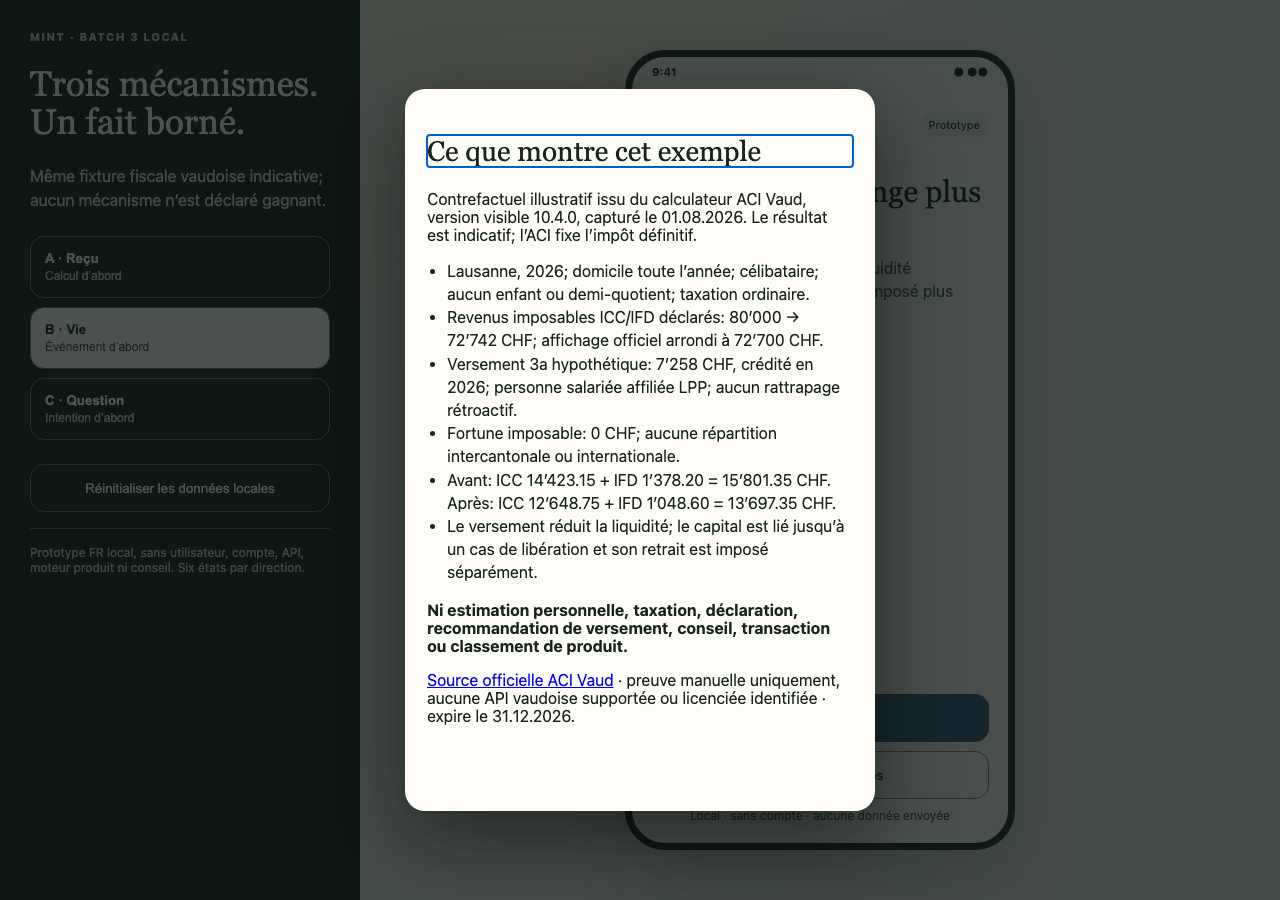
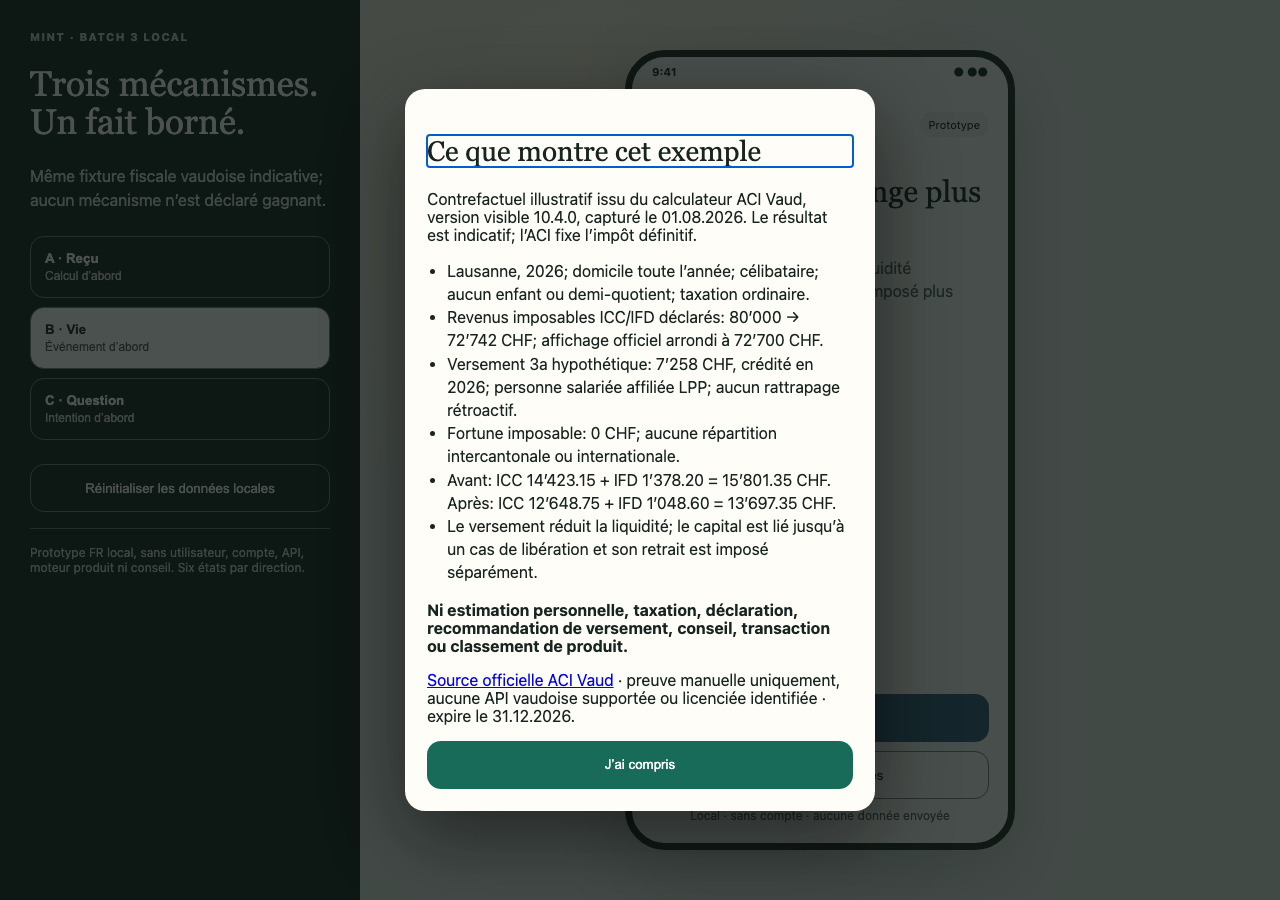
fix(mint-next): make disclosure close control visible

Changed region(s): [[0.3125, 0.8089, 0.6875, 0.9022]]

diff --git a/product/mint_next/batch3/prototype/index.html b/product/mint_next/batch3/prototype/index.html
@@ -4,7 +4,7 @@
   <meta charset="utf-8"><meta name="viewport" content="width=device-width,initial-scale=1">
   <title>MINT — Batch 3 · trois directions</title>
   <style>
-    :root{--ink:#17241f;--muted:#53605a;--paper:#f5f2e9;--card:#fffdf8;--mint:#176b58;--blue:#315c78;--violet:#685b82;--line:#c8d0ca;--danger:#8d352f;font-family:-apple-system,BlinkMacSystemFont,"Segoe UI",sans-serif;color:var(--ink);background:#dfe1dc}*{box-sizing:border-box}body{margin:0}.lab{display:grid;grid-template-columns:minmax(260px,360px) minmax(320px,1fr);min-height:100vh}.panel{padding:30px;background:#17241f;color:#fff}.eyebrow{font-size:11px;letter-spacing:.13em;text-transform:uppercase;font-weight:750;color:#b8cfc5}.panel h1,.content h2{font-family:Georgia,serif;font-weight:500}.panel h1{font-size:35px;line-height:1.06}.panel p{color:#d3ded9;line-height:1.5}.switcher{display:grid;gap:9px;margin:24px 0}.switcher button,.secondary{border:1px solid #718079;background:transparent;color:inherit}.switcher button{border-radius:14px;padding:14px;text-align:left}.switcher button[aria-pressed=true]{background:#fff;color:var(--ink)}.switcher strong,.switcher span{display:block}.switcher span{font-size:12px;opacity:.78;margin-top:3px}.rules{font-size:12px;color:#c7d2cd;border-top:1px solid #66756e;padding-top:16px}.stage{display:grid;place-items:center;padding:22px;background:radial-gradient(circle at 25% 15%,#f3e8d5,transparent 40%),#dfe3df}.phone{width:min(390px,100%);height:min(800px,calc(100vh - 44px));min-height:620px;background:var(--paper);border-radius:40px;border:7px solid #202823;box-shadow:0 25px 70px #17241f33;overflow:hidden}.status{height:30px;display:flex;justify-content:space-between;padding:8px 20px;font-size:11px;font-weight:700}.screen{height:calc(100% - 30px);display:flex;flex-direction:column;padding:15px 19px 20px}.top{display:flex;align-items:center;justify-content:space-between;min-height:44px}.back{border:0;background:transparent;min-width:44px;min-height:44px;font-size:24px;color:inherit}.step,.meta,.status-note{font-size:12px;color:var(--muted)}.badge{padding:6px 9px;border-radius:999px;background:#e3e8e4;font-size:11px}.content{flex:1;overflow:auto;padding:9px 1px}.content h2{font-size:30px;line-height:1.08;margin:8px 0 12px}.lead{line-height:1.45;color:var(--muted)}.choices,.chat,.actions{display:grid;gap:9px}.choice,.receipt,.option,.cap{background:var(--card);border:1px solid var(--line)}.choice{width:100%;min-height:56px;border-radius:15px;padding:14px;display:flex;justify-content:space-between;text-align:left;color:inherit;font:inherit}.choice.selected{border:2px solid var(--accent);padding:13px}.receipt{padding:19px 17px;box-shadow:0 8px 20px #44514912}.receipt:before{content:"FIXTURE · B2-VD-3A-2026-01";font-size:10px;letter-spacing:.07em;color:var(--muted)}.amount{font:44px/1 Georgia,serif;margin:15px 0 7px}.proof{display:grid;grid-template-columns:1fr auto;gap:9px;border-top:1px dashed var(--line);padding:9px 0;font-size:12px}.invalid{border:2px solid var(--danger);background:#fff7f5;padding:16px;border-radius:12px;color:var(--danger)}.timeline{border-left:2px solid #c9d5cf;margin:12px;padding-left:20px;display:grid;gap:17px}.moment{position:relative}.moment:before{content:"";position:absolute;left:-27px;top:2px;width:12px;height:12px;border-radius:50%;background:var(--accent);border:3px solid var(--paper)}.canvas{display:grid;grid-template-columns:1fr 1fr;gap:9px}.option{border-radius:16px;padding:13px}.signal{font:25px Georgia,serif}.bubble{max-width:90%;padding:12px 14px;border-radius:17px;background:#dce8e2}.bubble.user{margin-left:auto;background:#23352e;color:#fff}.cap{border-radius:20px;padding:16px;background:#20322b;color:#fff}.chips{display:flex;gap:8px;overflow:auto}.chip{white-space:nowrap;border:1px solid var(--line);background:var(--card);border-radius:999px;min-height:44px;padding:10px}.primary,.secondary{min-height:48px;border-radius:14px;padding:13px;font:600 15px inherit}.primary{border:0;background:var(--accent);color:#fff}.secondary{color:var(--ink)}#reset{width:100%;color:#fff;margin-bottom:16px}.meta{text-align:center}.direction-a{--accent:var(--mint)}.direction-b{--accent:var(--blue);--paper:#f1f3ef}.direction-c{--accent:var(--violet);--paper:#f2eff3}button{cursor:pointer}button:focus-visible{outline:3px solid #092f55;outline-offset:3px;box-shadow:0 0 0 3px #fff}.overlay{position:fixed;inset:0;background:#09120fbb;display:grid;place-items:center;padding:18px;z-index:5}.dialog{max-width:470px;background:#fffdf8;border-radius:20px;padding:22px;box-shadow:0 25px 80px #0007}.dialog h2{font:28px Georgia,serif}.dialog ul{padding-left:20px;line-height:1.45}.dialog button{width:100%}.hidden{display:none!important}
+    :root{--ink:#17241f;--muted:#53605a;--paper:#f5f2e9;--card:#fffdf8;--mint:#176b58;--blue:#315c78;--violet:#685b82;--line:#c8d0ca;--danger:#8d352f;font-family:-apple-system,BlinkMacSystemFont,"Segoe UI",sans-serif;color:var(--ink);background:#dfe1dc}*{box-sizing:border-box}body{margin:0}.lab{display:grid;grid-template-columns:minmax(260px,360px) minmax(320px,1fr);min-height:100vh}.panel{padding:30px;background:#17241f;color:#fff}.eyebrow{font-size:11px;letter-spacing:.13em;text-transform:uppercase;font-weight:750;color:#b8cfc5}.panel h1,.content h2{font-family:Georgia,serif;font-weight:500}.panel h1{font-size:35px;line-height:1.06}.panel p{color:#d3ded9;line-height:1.5}.switcher{display:grid;gap:9px;margin:24px 0}.switcher button,.secondary{border:1px solid #718079;background:transparent;color:inherit}.switcher button{border-radius:14px;padding:14px;text-align:left}.switcher button[aria-pressed=true]{background:#fff;color:var(--ink)}.switcher strong,.switcher span{display:block}.switcher span{font-size:12px;opacity:.78;margin-top:3px}.rules{font-size:12px;color:#c7d2cd;border-top:1px solid #66756e;padding-top:16px}.stage{display:grid;place-items:center;padding:22px;background:radial-gradient(circle at 25% 15%,#f3e8d5,transparent 40%),#dfe3df}.phone{width:min(390px,100%);height:min(800px,calc(100vh - 44px));min-height:620px;background:var(--paper);border-radius:40px;border:7px solid #202823;box-shadow:0 25px 70px #17241f33;overflow:hidden}.status{height:30px;display:flex;justify-content:space-between;padding:8px 20px;font-size:11px;font-weight:700}.screen{height:calc(100% - 30px);display:flex;flex-direction:column;padding:15px 19px 20px}.top{display:flex;align-items:center;justify-content:space-between;min-height:44px}.back{border:0;background:transparent;min-width:44px;min-height:44px;font-size:24px;color:inherit}.step,.meta,.status-note{font-size:12px;color:var(--muted)}.badge{padding:6px 9px;border-radius:999px;background:#e3e8e4;font-size:11px}.content{flex:1;overflow:auto;padding:9px 1px}.content h2{font-size:30px;line-height:1.08;margin:8px 0 12px}.lead{line-height:1.45;color:var(--muted)}.choices,.chat,.actions{display:grid;gap:9px}.choice,.receipt,.option,.cap{background:var(--card);border:1px solid var(--line)}.choice{width:100%;min-height:56px;border-radius:15px;padding:14px;display:flex;justify-content:space-between;text-align:left;color:inherit;font:inherit}.choice.selected{border:2px solid var(--accent);padding:13px}.receipt{padding:19px 17px;box-shadow:0 8px 20px #44514912}.receipt:before{content:"FIXTURE · B2-VD-3A-2026-01";font-size:10px;letter-spacing:.07em;color:var(--muted)}.amount{font:44px/1 Georgia,serif;margin:15px 0 7px}.proof{display:grid;grid-template-columns:1fr auto;gap:9px;border-top:1px dashed var(--line);padding:9px 0;font-size:12px}.invalid{border:2px solid var(--danger);background:#fff7f5;padding:16px;border-radius:12px;color:var(--danger)}.timeline{border-left:2px solid #c9d5cf;margin:12px;padding-left:20px;display:grid;gap:17px}.moment{position:relative}.moment:before{content:"";position:absolute;left:-27px;top:2px;width:12px;height:12px;border-radius:50%;background:var(--accent);border:3px solid var(--paper)}.canvas{display:grid;grid-template-columns:1fr 1fr;gap:9px}.option{border-radius:16px;padding:13px}.signal{font:25px Georgia,serif}.bubble{max-width:90%;padding:12px 14px;border-radius:17px;background:#dce8e2}.bubble.user{margin-left:auto;background:#23352e;color:#fff}.cap{border-radius:20px;padding:16px;background:#20322b;color:#fff}.chips{display:flex;gap:8px;overflow:auto}.chip{white-space:nowrap;border:1px solid var(--line);background:var(--card);border-radius:999px;min-height:44px;padding:10px}.primary,.secondary{min-height:48px;border-radius:14px;padding:13px;font:600 15px inherit}.primary{border:0;background:var(--accent);color:#fff}.secondary{color:var(--ink)}#reset{width:100%;color:#fff;margin-bottom:16px}.meta{text-align:center}.direction-a{--accent:var(--mint)}.direction-b{--accent:var(--blue);--paper:#f1f3ef}.direction-c{--accent:var(--violet);--paper:#f2eff3}button{cursor:pointer}button:focus-visible{outline:3px solid #092f55;outline-offset:3px;box-shadow:0 0 0 3px #fff}.overlay{position:fixed;inset:0;background:#09120fbb;display:grid;place-items:center;padding:18px;z-index:5}.dialog{max-width:470px;background:#fffdf8;border-radius:20px;padding:22px;box-shadow:0 25px 80px #0007}.dialog h2{font:28px Georgia,serif}.dialog ul{padding-left:20px;line-height:1.45}.dialog button{width:100%}#close-overlay{background:#176b58;color:#fff}.hidden{display:none!important}
     @media(max-width:760px){.lab{display:block}.panel{padding:9px 10px}.panel h1,.panel>p,.rules,#reset{display:none}.switcher{grid-template-columns:repeat(3,1fr);margin:4px}.switcher button{padding:8px;font-size:11px}.switcher span{display:none}.stage{padding:5px}.phone{height:calc(100vh - 92px);min-height:560px;border-radius:25px}.content h2{font-size:27px}}
     @media(max-width:500px){.lab,.panel,.stage{width:320px;max-width:320px}.stage{padding:0;justify-items:start}.phone{width:320px;border-left:0;border-right:0;border-radius:0}.canvas{grid-template-columns:1fr}.screen{padding-left:14px;padding-right:14px}.amount{font-size:38px}.choice{align-items:flex-start;flex-direction:column;gap:5px}.choice b,.proof b{overflow-wrap:anywhere;text-align:left}.proof{grid-template-columns:1fr}.overlay{padding:10px;place-items:start}.dialog{width:300px;max-height:calc(100vh - 20px);overflow:auto}.content,.receipt,.cap,.option,.actions{min-width:0;max-width:100%;overflow-wrap:anywhere}}
     @media(prefers-reduced-motion:no-preference){.content>*{animation:enter .18s ease-out}@keyframes enter{from{opacity:.3;transform:translateY(4px)}}}

diff --git a/tools/checks/mint_next_batch3_guard.py b/tools/checks/mint_next_batch3_guard.py
@@ -70,7 +70,7 @@ def validate(root:Path)->list[str]:
  if any(token not in html for token in required):e.append('Batch 3 prototype runtime hooks or fixture identity are incomplete')
  if html.count('data-direction=')<3:e.append('Batch 3 prototype does not expose three directions')
  runtime=load(root,'evidence/runtime-20260801.yaml',e)
[2 lines of base64/hex data omitted]
  if runtime!=expected_runtime:e.append('Batch 3 runtime receipt has drifted')
  if hashlib.sha256(html_path.read_bytes()).hexdigest()!=runtime.get('prototype_sha256'):e.append('Batch 3 runtime prototype hash mismatch')
  probe=root/'tools/checks/mint_next_batch3_runtime_probe.py'

diff --git a/tools/checks/mint_next_batch3_runtime_probe.py b/tools/checks/mint_next_batch3_runtime_probe.py
@@ -163,7 +163,7 @@ def main() -> int:
         browser.click("#disclose"); browser.key("Tab")
         check(browser.js("document.activeElement.matches('#disclosure a[href]')&&(()=>{const r=document.activeElement.getBoundingClientRect();return r.top>=0&&r.bottom<=innerHeight})()"), "modal Tab reaches visible source")
         browser.key("Tab")
-        check(browser.js("document.activeElement.id==='close-overlay'&&(()=>{const r=document.activeElement.getBoundingClientRect();return r.top>=0&&r.bottom<=innerHeight})()"), "modal Tab reaches visible close")
+        check(browser.js("document.activeElement.id==='close-overlay'&&getComputedStyle(document.activeElement).backgroundColor==='rgb(23, 107, 88)'&&getComputedStyle(document.activeElement).color==='rgb(255, 255, 255)'&&(()=>{const r=document.activeElement.getBoundingClientRect();return r.top>=0&&r.bottom<=innerHeight&&r.height>=44})()"), "modal Tab reaches visible high-contrast close")
         browser.key("Tab", modifiers=8)
         check(browser.js("document.activeElement.matches('#disclosure a[href]')"), "modal Shift+Tab returns to source")
         browser.click("#close-overlay")

diff --git a/tools/checks/tests/test_mint_next_batch3_runtime_probe.py b/tools/checks/tests/test_mint_next_batch3_runtime_probe.py
@@ -35,6 +35,7 @@ def run_mutation(tmp_path: Path, old: str, new: str) -> subprocess.CompletedProc
         ("b:{cls:'direction-b',resultStep:3", "b:{cls:'direction-b',resultStep:4"),
         ("back.onclick=()=>{if(index>0){index--;render();if(index===0)content.focus({preventScroll:true})}}", "back.onclick=()=>{if(index>0){state.corrections[dir]={};index--;render()}}"),
         ("document.querySelector('#disclosure-title').focus({preventScroll:true})", "document.querySelector('#close-overlay').focus({preventScroll:true})"),
+        ("#close-overlay{background:#176b58;color:#fff}", "#close-overlay{background:transparent;color:#fff}"),
     ],
 )
 def test_runtime_probe_rejects_theatrical_or_broken_paths(tmp_path: Path, old: str, new: str):
